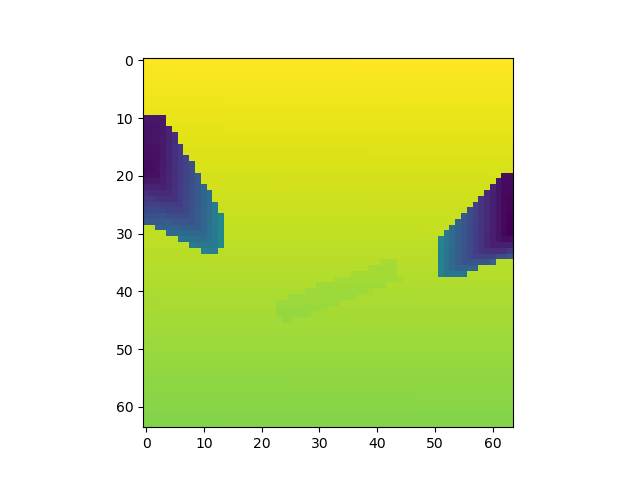
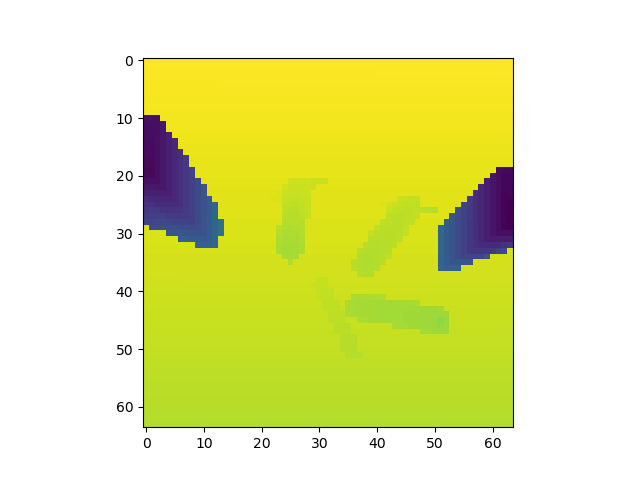
na

diff --git a/Deep Reinforcement Learning Enabled Robot Grasping/SimplifiedWorld.py b/Deep Reinforcement Learning Enabled Robot Grasping/SimplifiedWorld.py
@@ -4,6 +4,7 @@ currentdir = os.path.dirname(os.path.abspath(inspect.getfile(inspect.currentfram
 parentdir = os.path.dirname(os.path.dirname(currentdir))
 os.sys.path.insert(0, parentdir)
 import pybullet as p 
+import pybullet_data
 import gym 
 import math
 import gym
@@ -43,7 +44,7 @@ class SimplifiedWorld(gym.Env):
         self._width = 64
         self._height = 64
         self.terminated = False 
-
+        self.extent = 0.1
         transform_dict = {'translation' : [0.0, 0.0573, 0.0451], 'rotation' : [0.0, -0.1305, 0.9914, 0.0]}
         self._transform = transform_utils.from_dict(transform_dict) 
 
@@ -69,8 +70,22 @@ class SimplifiedWorld(gym.Env):
         self._envStepCounter = 0
 
         #Load white floor
-        plane = self._physicsClient.loadURDF("plane/planeRL.urdf", [0, 0, 0])
+        plane = self._physicsClient.loadURDF("plane/planeRL.urdf", [0., 0., -0.196], [0., 0., 0., 1.])
 
+        numBlocks = 3
+
+        self._blocks = []
+        for i in range (numBlocks):
+            randBlock = np.random.randint(100, 999)
+            path = self._urdfRoot + '/random_urdfs/' + str(randBlock) + '/' + str(randBlock) + '.urdf'
+            print(path)
+            #path = [os.path.join(self._urdfRoot, 'random_urdfs',(str(randBlock)), str(randBlock) + '.urdf')]
+            position = np.r_[np.random.uniform(-self.extent, self.extent), np.random.uniform(-self.extent, self.extent), 0.1]
+            orientation = transformations.random_quaternion()
+            block = self._physicsClient.loadURDF(path, position, orientation)
+            self._blocks.append(block)
+
+        """
         #Load custom object @ random position (within bounds of simple env)
         squareBounds = 0.01
         xpos = squareBounds * random.random()
@@ -79,7 +94,11 @@ class SimplifiedWorld(gym.Env):
         orn = p.getQuaternionFromEuler([0, 0, ang])
         self.blockUid = p.loadURDF(os.path.join(self._urdfRoot, "block.urdf"), xpos, ypos, 0,
                                orn[0], orn[1], orn[2], orn[3])
-
+        """
+        
+        for i in range(1000):
+            self._physicsClient.stepSimulation() 
+        
         #load simple gripper, use 0,1,2 to control X, Y, Z pos, 3 to control gripper yaw, & 7/9 to close gripper
         start_pos = [0, 0, 0.4]
         start_orn = p.getQuaternionFromEuler([3.14, 0, 3.14]) #CONFIRM - random environment intialization is congruent with simple base environment outlined by Baris
@@ -101,7 +120,6 @@ class SimplifiedWorld(gym.Env):
         cx = 32.19 
         cy = 32.0 
         """
-
         transform = np.copy(self._transform)
 
         # Randomize translation
@@ -149,7 +167,7 @@ class SimplifiedWorld(gym.Env):
         obs = np.array(depthImg)
         obs = obs[np.newaxis, :, :]
         """
-        print(self._physicsClient.getLinkState(self.model_id, 3))
+        #print(self._physicsClient.getLinkState(self.model_id, 3))
         pos, orn, _, _, _, _ = self._physicsClient.getLinkState(self.model_id, 3)
         h_world_robot = transform_utils.from_pose(pos, orn)
         h_camera_world = np.linalg.inv(np.dot(h_world_robot, self._h_robot_camera))
@@ -166,18 +184,23 @@ class SimplifiedWorld(gym.Env):
             height=self._height,
             viewMatrix=gl_view_matrix,
             projectionMatrix=projectionMatrix)
-        
+
         obs = np.array(depthImg)
+        """
+        
         plt.imshow(obs)
         plt.savefig(str(self._envStepCounter) + ".png")
+        """
         near, far = 0.2, 2
 
         obs = obs[np.newaxis, :, :]
         depth_buffer = np.asarray(depthImg, np.float32).reshape(
             (self._height, self._width))
         obs = 1. * far * near / (far - (far - near) * depth_buffer)
+        """
         plt.imshow(obs)
         plt.savefig(str(self._envStepCounter) + "modified.png")
+        """
         obs = obs[np.newaxis, :, :]
         return obs
 
@@ -210,12 +233,22 @@ class SimplifiedWorld(gym.Env):
 
     def step(self,action):
         #takes in 3 floating point values (x, y, angle), steps actuator in that direction
+        translation = action[:2]
+        yaw = action[2]
+        actionNorm = np.linalg.norm(translation)
+        if(actionNorm > 0.03):
+            translation *= 0.03/actionNorm
+        if(yaw > 0.15):
+            yaw = 0.15
+        elif(yaw < 0):
+            yaw = 0
+        print("Translation: ", translation)
+        print("Yaw: ", yaw)
         print(self._envStepCounter)
-        speedConstant = 0.005
-        dx = action[0] * speedConstant
-        dy = action[1] * speedConstant
+        dx = translation[0] 
+        dy = translation[1] 
         dz = 0.001
-        dA = action[2] * 2 * speedConstant #CONFIRM - speed constant for translation is reasonable 
+        dA = yaw #CONFIRM - speed constant for translation is reasonable 
         gripperPosX = self._physicsClient.getJointState(self.model_id, 0)[0]
         gripperPosY = self._physicsClient.getJointState(self.model_id, 1)[0]
         gripperPosZ = self._physicsClient.getJointState(self.model_id, 2)[0]
@@ -278,14 +311,15 @@ class SimplifiedWorld(gym.Env):
     
     def getReward(self): 
         #evaluates block position & assigns reward if block height is correct
-        if(self._physicsClient.getBasePositionAndOrientation(self.blockUid)[0][2] > 0.05):
-            return 1
-        else:
-            return 0
+        for i in range(len(self._blocks)):
+            if(self._physicsClient.getBasePositionAndOrientation(self._blocks[i])[0][2] > 0.05):
+                return 1
+            else:
+                return 0
 
 env = SimplifiedWorld(renders = True)
 env = make_vec_env(lambda: env, n_envs=1)
-model = SAC("CnnPolicy", env, verbose=1, device = 'cuda')
+model = SAC("CnnPolicy", env, verbose=1, device = 'cpu')
 env = VecNormalize(env)
 model.learn(total_timesteps=1000000, log_interval=4)
 
